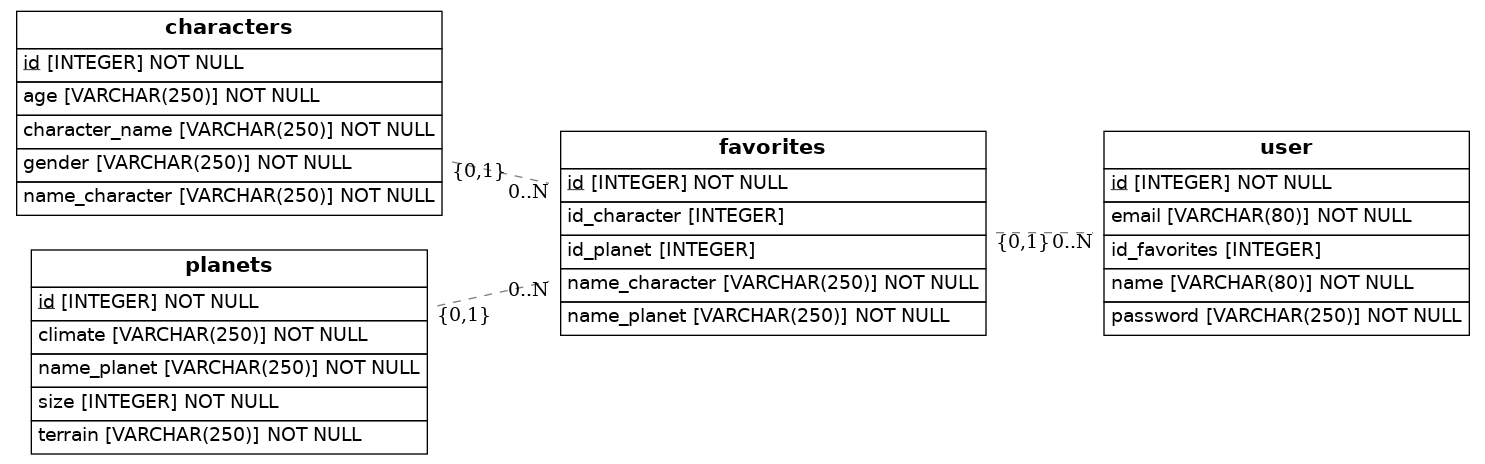
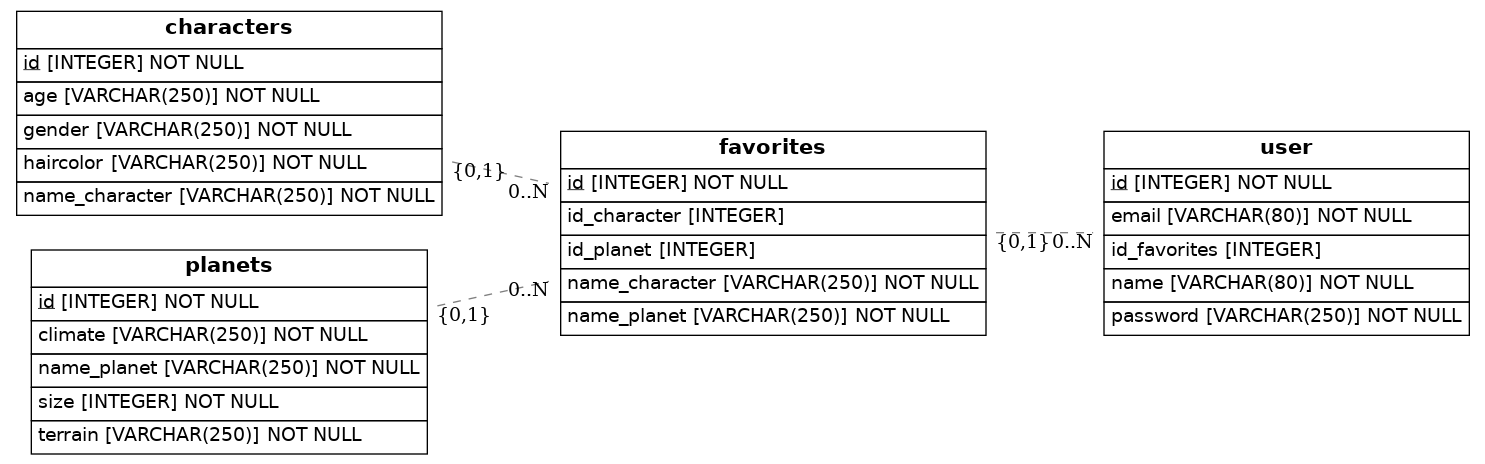
listo (ojalá2)

Changed region(s): [[0.0, 0.2414, 0.3098, 0.3017], [0.0, 0.3319, 0.2478, 0.3922]]

diff --git a/src/models.py b/src/models.py
@@ -29,7 +29,7 @@ class Characters(Base):
     id = Column(Integer, primary_key=True)
     name_character = Column(String(250), nullable=False)
     gender = Column(String(250), nullable=False)
-    character_name = Column(String(250), nullable=False)
+    haircolor = Column(String(250), nullable=False)
     age = Column(String(250), nullable=False)
     favorites = relationship(Favorites)
 
